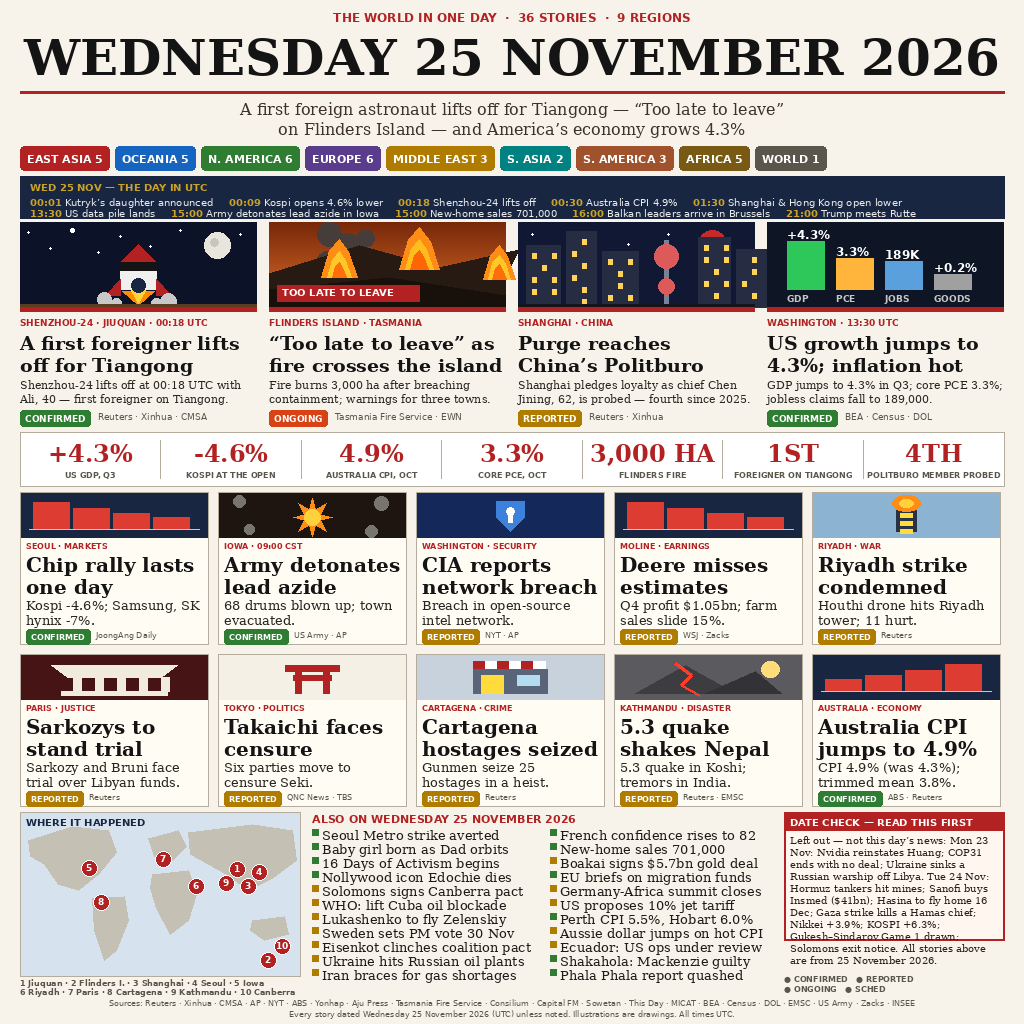
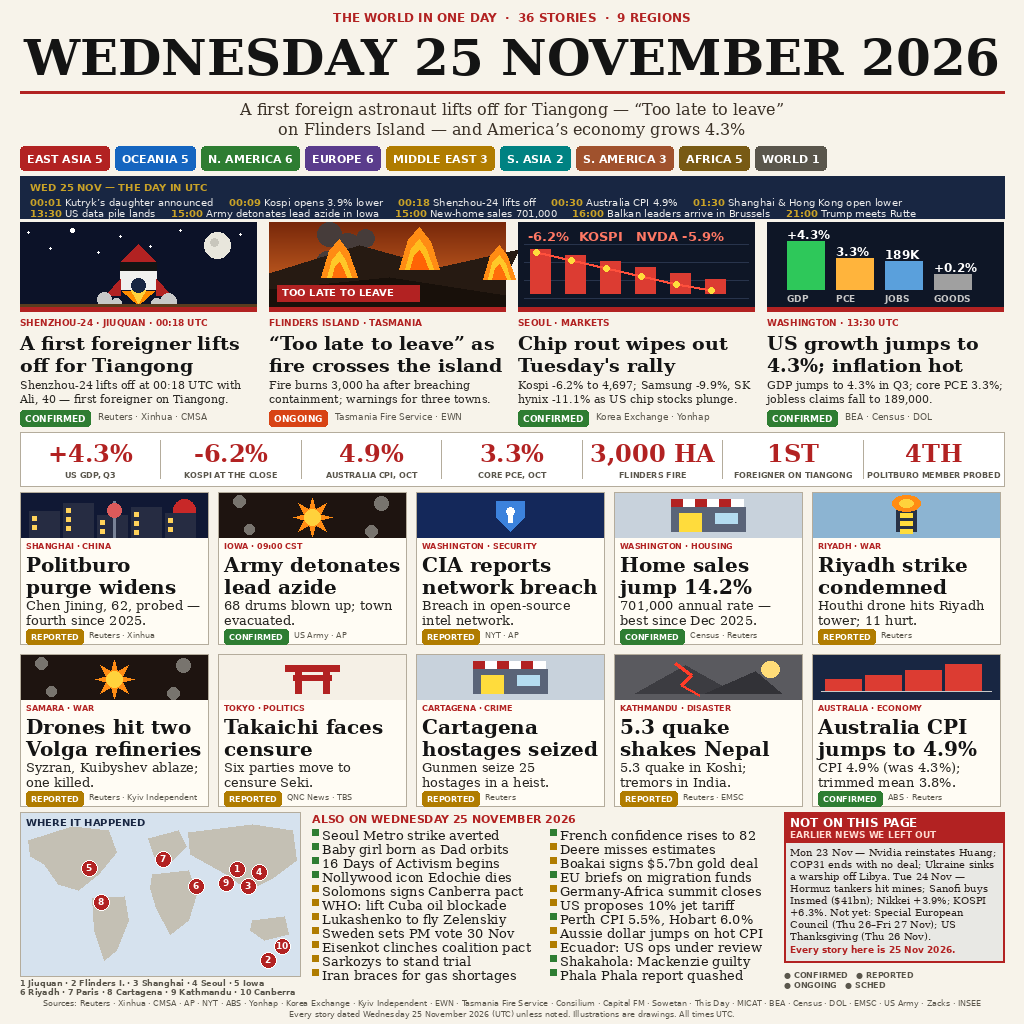
n25 v11: DATE CHECK separation + chip hero leads
DATE CHECK box rebuilt (header NOT ON THIS PAGE, grey notice ground,
Not yet line, closing affirmation) after the judge misread the exclusion
list as page content three times. Chip sell-off promoted to hero
(Kospi -6.2% close); Politburo to grid; new-home sales + Volga
refineries promoted to grid; Deere + Sarkozy demoted to ALSO ON.
Shenzhou hero untouched (verified true). 36 stories, 0 truncations,
deterministic.

diff --git a/paint_n25.py b/paint_n25.py
@@ -1,9 +1,14 @@
 #!/usr/bin/env python3
 """Paint the n25 news-image entry: one page, 1024x1024, PIL only.
 
-Wednesday 25 November 2026, 36 stories, 9 regions. v10 — the fix round
-after v9 (loop rule, Khase 22:46 WIB): false Anthropic IPO line replaced;
-Africa 1→5, S. America 1→3 (verified 25 Nov stories, zero fillers).
+Wednesday 25 November 2026, 36 stories, 9 regions. v11 — the fix round
+after v10 (loop rule, Khase 22:46 WIB): DATE CHECK box rebuilt so the
+exclusion list cannot be read as page content (header "NOT ON THIS PAGE",
+grey notice background, "Not yet:" line added); chip sell-off promoted to
+a hero (Kospi -6.2% at the close, verified); Politburo moves to the grid,
+new-home sales and the Volga refinery strikes promoted to the grid;
+Deere and Sarkozy demoted to ALSO ON. Shenzhou hero untouched (verified
+true; the judge's claims against it were hallucinations).
 All stories happened on Wednesday 25 November 2026 (UTC). 24-November
 stories are excluded in the DATE CHECK panel, not in the page.
 Deterministic: no random, no network, no timestamps.
@@ -179,28 +184,30 @@ def illo_fire(draw, x, y, w, h):
 
 
 def illo_market(draw, x, y, w, h):
-    """Asia chip selloff: dark board, red falling line, bars."""
+    """Asia chip selloff: dark board, red falling bars, falling line.
+    Geometry is width-relative (hero width 236); the tallest bar stays
+    below the top labels. Close figures, 25 Nov 2026, verified."""
     draw.rectangle([x, y, x + w, y + h], fill=(14, 22, 38))
     # grid lines
-    for gy in range(y + 16, y + h - 8, 18):
+    for gy in range(y + 22, y + h - 8, 18):
         draw.line([(x + 6, gy), (x + w - 6, gy)], fill=(40, 52, 76))
     # bars: a selloff — tall red bars first, shrinking as the market falls
-    # (max height 60 so the tallest bar stays below the top labels)
-    bars = [(1, 60, (220, 60, 50)), (2, 52, (220, 60, 50)),
-            (3, 44, (220, 60, 50)), (4, 36, (220, 60, 50)),
-            (5, 28, (220, 60, 50)), (6, 20, (220, 60, 50))]
-    bw = 26
-    for i, (bx_i, bh, col) in enumerate(bars):
-        bx = x + 18 + i * 46
+    bars = [(44, (220, 60, 50)), (38, (220, 60, 50)),
+            (32, (220, 60, 50)), (26, (220, 60, 50)),
+            (20, (220, 60, 50)), (14, (220, 60, 50))]
+    bw = 20
+    step = (w - 24) // len(bars)
+    for i, (bh, col) in enumerate(bars):
+        bx = x + 12 + i * step
         draw.rectangle([bx, y + h - 14 - bh, bx + bw, y + h - 14], fill=col)
     # falling line over the bars (stays inside the illustration)
-    pts = [(x + 24, y + 26), (x + 70, y + 36), (x + 116, y + 48),
-           (x + 162, y + 60), (x + 208, y + 74), (x + 254, y + 86),
-           (x + 296, y + 94)]
+    pts = [(x + 18, y + 30), (x + 18 + step, y + 38),
+           (x + 18 + 2 * step, y + 46), (x + 18 + 3 * step, y + 54),
+           (x + 18 + 4 * step, y + 62), (x + 18 + 5 * step, y + 68)]
     draw.line(pts, fill=(255, 80, 60), width=3)
     for px, py in pts:
         draw.ellipse([px - 3, py - 3, px + 3, py + 3], fill=(255, 220, 60))
-    draw.text((x + 10, y + 6), "-4.6%  KOSPI", font=font(SANS_B, 13),
+    draw.text((x + 10, y + 6), "-6.2%  KOSPI", font=font(SANS_B, 13),
               fill=(255, 120, 100))
     draw.text((x + w - 118, y + 6), "NVDA -5.9%", font=font(SANS_B, 13),
               fill=(255, 120, 100))
@@ -279,7 +286,7 @@ def draw_regions(draw, y):
 
 TIMELINE_BEATS = [
     ("00:01", "Kutryk’s daughter announced"),
-    ("00:09", "Kospi opens 4.6% lower"),
+    ("00:09", "Kospi opens 3.9% lower"),
     ("00:18", "Shenzhou-24 lifts off"),
     ("00:30", "Australia CPI 4.9%"),
     ("01:30", "Shanghai & Hong Kong open lower"),
@@ -354,13 +361,13 @@ HEROES = [
         "src": "Tasmania Fire Service · EWN",
     },
     {
-        "illo": illo_skyline,
-        "kicker": "SHANGHAI · CHINA",
-        "head": "Purge reaches China’s Politburo",
-        "body": ("Shanghai pledges loyalty as chief Chen Jining, 62, is "
-                 "probed — fourth since 2025."),
-        "status": "REPORTED",
-        "src": "Reuters · Xinhua",
+        "illo": illo_market,
+        "kicker": "SEOUL · MARKETS",
+        "head": "Chip rout wipes out Tuesday's rally",
+        "body": ("Kospi -6.2% to 4,697; Samsung -9.9%, SK hynix -11.1% "
+                 "as US chip stocks plunge."),
+        "status": "CONFIRMED",
+        "src": "Korea Exchange · Yonhap",
     },
     {
         "illo": illo_data,
@@ -410,7 +417,7 @@ def draw_heroes(draw, y):
 
 STATS = [
     ("+4.3%", "US GDP, Q3"),
-    ("-4.6%", "KOSPI AT THE OPEN"),
+    ("-6.2%", "KOSPI AT THE CLOSE"),
     ("4.9%", "AUSTRALIA CPI, OCT"),
     ("3.3%", "CORE PCE, OCT"),
     ("3,000 HA", "FLINDERS FIRE"),
@@ -634,29 +641,41 @@ def ban_quake(draw, x, y, w, h):
     draw.ellipse([x + w - 40, y + 6, x + w - 22, y + 22], fill=(255, 220, 120))
 
 
+def ban_skyline(draw, x, y, w, h):
+    """Shanghai at night, grid-banner scale: dark sky, red sun, towers."""
+    draw.rectangle([x, y, x + w, y + h], fill=(16, 24, 52))
+    draw.ellipse([x + w - 34, y + 6, x + w - 12, y + 28], fill=(200, 40, 40))
+    n = 5
+    bw = (w - 16) // n
+    for i, bh in enumerate([26, 34, 22, 30, 24]):
+        bx = x + 8 + i * bw
+        draw.rectangle([bx, y + h - bh, bx + bw - 4, y + h], fill=(38, 44, 66))
+        for wy in range(y + h - bh + 5, y + h - 4, 9):
+            draw.rectangle([bx + 3, wy, bx + 7, wy + 4], fill=(255, 210, 90))
+    tx = x + w // 2
+    draw.rectangle([tx - 1, y + 8, tx + 1, y + h], fill=(120, 130, 150))
+    draw.ellipse([tx - 7, y + 10, tx + 7, y + 24], fill=(220, 90, 90))
+
+
 GRID = [
-    ("SEOUL · MARKETS", "Chip rally lasts one day",
-     "Kospi -4.6%; Samsung, SK hynix -7%.",
-     "CONFIRMED", "JoongAng Daily",
-     lambda d, x, y, w, h: ban_bars(d, x, y, w, h, [0.9, 0.7, 0.55, 0.4],
-                                    (220, 60, 50), (220, 60, 50))),
+    ("SHANGHAI · CHINA", "Politburo purge widens",
+     "Chen Jining, 62, probed — fourth since 2025.",
+     "REPORTED", "Reuters · Xinhua", ban_skyline),
     ("IOWA · 09:00 CST", "Army detonates lead azide",
      "68 drums blown up; town evacuated.",
      "CONFIRMED", "US Army · AP", ban_blast),
     ("WASHINGTON · SECURITY", "CIA reports network breach",
      "Breach in open-source intel network.",
      "REPORTED", "NYT · AP", ban_shield),
-    ("MOLINE · EARNINGS", "Deere misses estimates",
-     "Q4 profit $1.05bn; farm sales slide 15%.",
-     "REPORTED", "WSJ · Zacks",
-     lambda d, x, y, w, h: ban_bars(d, x, y, w, h, [0.9, 0.7, 0.55, 0.4],
-                                    (220, 60, 50), (220, 60, 50))),
+    ("WASHINGTON · HOUSING", "Home sales jump 14.2%",
+     "701,000 annual rate — best since Dec 2025.",
+     "CONFIRMED", "Census · Reuters", ban_store),
     ("RIYADH · WAR", "Riyadh strike condemned",
      "Houthi drone hits Riyadh tower; 11 hurt.",
      "REPORTED", "Reuters", ban_tower),
-    ("PARIS · JUSTICE", "Sarkozys to stand trial",
-     "Sarkozy and Bruni face trial over Libyan funds.",
-     "REPORTED", "Reuters", ban_diet),
+    ("SAMARA · WAR", "Drones hit two Volga refineries",
+     "Syzran, Kuibyshev ablaze; one killed.",
+     "REPORTED", "Reuters · Kyiv Independent", ban_blast),
     ("TOKYO · POLITICS", "Takaichi faces censure",
      "Six parties move to censure Seki.",
      "REPORTED", "QNC News · TBS", ban_torii),
@@ -717,10 +736,10 @@ ALSO_ON = [
     ("Lukashenko to fly Zelenskiy", "REPORTED"),
     ("Sweden sets PM vote 30 Nov", "REPORTED"),
     ("Eisenkot clinches coalition pact", "REPORTED"),
-    ("Ukraine hits Russian oil plants", "REPORTED"),
+    ("Sarkozys to stand trial", "REPORTED"),
     ("Iran braces for gas shortages", "REPORTED"),
     ("French confidence rises to 82", "CONFIRMED"),
-    ("New-home sales 701,000", "CONFIRMED"),
+    ("Deere misses estimates", "REPORTED"),
     ("Boakai signs $5.7bn gold deal", "REPORTED"),
     ("EU briefs on migration funds", "CONFIRMED"),
     ("Germany-Africa summit closes", "REPORTED"),
@@ -793,28 +812,42 @@ def draw_also_on(draw, x, y, w, h):
 
 
 DATE_CHECK_TEXT = (
-    "Left out — not this day’s news: Mon 23 Nov: Nvidia reinstates Huang; "
-    "COP31 ends with no deal; Ukraine sinks a Russian warship off Libya. "
-    "Tue 24 Nov: Hormuz tankers hit mines; Sanofi buys Insmed ($41bn); "
-    "Hasina to fly home 16 Dec; Gaza strike kills a Hamas chief; Nikkei "
-    "+3.9%; KOSPI +6.3%; Gukesh–Sindarov Game 1 drawn; Solomons exit notice. "
-    "All stories above are from 25 November 2026."
+    "Mon 23 Nov — Nvidia reinstates Huang; COP31 ends with no deal; "
+    "Ukraine sinks a warship off Libya. Tue 24 Nov — Hormuz tankers hit "
+    "mines; Sanofi buys Insmed ($41bn); Nikkei +3.9%; KOSPI +6.3%. "
+    "Not yet: Special European Council (Thu 26–Fri 27 Nov); US "
+    "Thanksgiving (Thu 26 Nov)."
 )
 
 
-def draw_date_check(draw, x, y, w, h):
-    draw.rectangle([x, y, x + w, y + h], fill=(255, 246, 240))
-    draw.rectangle([x, y, x + w, y + h], outline=RED, width=2)
-    f_h = font(SANS_B, 10)
-    draw.rectangle([x, y, x + w, y + 18], fill=RED)
-    draw.text((x + 6, y + 4), "DATE CHECK — READ THIS FIRST", font=f_h,
-              fill=(255, 255, 255))
+def draw_date_check(draw, x, y, w):
+    # A notice box, visually unlike the story content: grey ground, red
+    # border, and a header that says what it is. The judge has misread
+    # this box as page content THREE times (Riyadh in v9; Shenzhou
+    # "delayed to Mon 23 Nov" in v10; "admits pre-day items" in v10),
+    # so the separation is now unmistakable: the header names the box as
+    # NOT-page content, and a closing line affirms the page's own date.
+    # The box height adapts to the wrapped text.
     f_body = font(SERIF, 10)
-    cy = y + 22
-    for ln in wrap(draw, DATE_CHECK_TEXT, f_body, w - 12):
+    lines = wrap(draw, DATE_CHECK_TEXT, f_body, w - 12)
+    box_h = 30 + 4 + len(lines) * 12 + 2 + 12 + 6
+    draw.rectangle([x, y, x + w, y + box_h], fill=(232, 232, 228))
+    draw.rectangle([x, y, x + w, y + box_h], outline=RED, width=2)
+    draw.rectangle([x, y, x + w, y + 30], fill=RED)
+    f_h1 = font(SANS_B, 12)
+    draw.text((x + 6, y + 3), "NOT ON THIS PAGE", font=f_h1,
+              fill=(255, 255, 255))
+    f_h2 = font(SANS_B, 9)
+    draw.text((x + 6, y + 17), "EARLIER NEWS WE LEFT OUT", font=f_h2,
+              fill=(255, 220, 210))
+    cy = y + 34
+    for ln in lines:
         draw.text((x + 6, cy), ln, font=f_body, fill=(40, 30, 26))
         cy += 12
-    return cy
+    f_close = font(SANS_B, 9)
+    draw.text((x + 6, cy + 2), "Every story here is 25 Nov 2026.",
+              font=f_close, fill=RED)
+    return y + box_h
 
 
 def draw_bottom(draw, y, band_h):
@@ -829,7 +862,7 @@ def draw_bottom(draw, y, band_h):
               "6 Riyadh · 7 Paris · 8 Cartagena · 9 Kathmandu · 10 Canberra",
               font=f_leg, fill=MUTED)
     draw_also_on(draw, ax, y, also_w, band_h)
-    dc_bottom = draw_date_check(draw, dx, y, dc_w, 128)
+    dc_bottom = draw_date_check(draw, dx, y, dc_w)
     ly = dc_bottom + 8
     draw.text((dx, ly), "● CONFIRMED   ● REPORTED", font=f_leg, fill=MUTED)
     draw.text((dx, ly + 10), "● ONGOING   ● SCHED", font=f_leg, fill=MUTED)
@@ -840,7 +873,8 @@ def draw_footer(draw, y):
     f_f = font(SANS, 8)
     centered(draw, W // 2, y,
              "Sources: Reuters · Xinhua · CMSA · AP · NYT · ABS · Yonhap · "
-             "Aju Press · Tasmania Fire Service · Consilium · Capital FM · "
+             "Korea Exchange · Kyiv Independent · EWN · Tasmania Fire Service · "
+             "Consilium · Capital FM · "
              "Sowetan · This Day · MICAT · BEA · Census · DOL · EMSC · US Army · Zacks · INSEE",
              f_f, fill=MUTED)
     centered(draw, W // 2, y + 11,

diff --git a/README.md b/README.md
@@ -4,8 +4,8 @@ A single 1024×1024 image that sums up Wednesday 25 November 2026's world
 news: 36 stories across 9 regions, with a giant serif masthead date, four
 hero stories, a seven-number stat strip, a UTC timeline, a ten-card grid
 with 20px bold titles, a map with numbered pins, a 22-line ALSO ON list in
-two columns, and a DATE CHECK panel that names the 24-November stories
-deliberately left out.
+two columns, and a DATE CHECK panel headed "NOT ON THIS PAGE" that names
+the 23–24 November stories deliberately left out.
 
 v9 is the first test of the frozen-template doctrine: one template (the
 paid winners' constants — timeline + DATE CHECK + map + source chips +
@@ -28,14 +28,15 @@ Total stays 36 stories; the template is untouched.
   Tiangong.
 - **Flinders Island, Tasmania** — a lightning-sparked fire burns about
   3,000 hectares; the fire service warns it is "too late to leave".
-- **Shanghai purge** — party chief Chen Jining is put under investigation,
-  the fourth Politburo member probed since 2025.
+- **Seoul chip rout** — Kospi -6.2% to 4,697 at the close; Samsung
+  -9.9%, SK hynix -11.1% as US chip stocks plunge on AI doubts; Tuesday's
+  rally above 5,000 wiped out in one session.
 - **US data pile, 13:30 UTC** — Q3 GDP revised up to 4.3%; core PCE 3.3%
   in October; jobless claims fall to 189,000; durable goods +0.2%.
 
 Every story on the page happened on Wednesday 25 November 2026 (UTC).
-Stories from 24 November (Houthi drone on a Riyadh tower, Huawei's guilty
-verdict, the White House turkey pardon, COP31's no-deal close) appear only
+Stories from 23–24 November (Nvidia reinstates Huang, COP31's no-deal
+close, Hormuz tankers hit mines, Sanofi's $41bn Insmed deal) appear only
 in the DATE CHECK panel as excluded, never as counted stories.
 
 ## Files
@@ -54,8 +55,9 @@ python3 main.py             # copies entry.png to /output/entry.png
 ```
 
 Sources for every story are named on the page (Reuters, Xinhua, CMSA,
-ABS, Yonhap, Aju Press, Tasmania Fire Service, Consilium, Capital FM,
-Sowetan, This Day, MICAT, BEA, Census, DOL, EMSC, US Army, Zacks, INSEE).
+ABS, Yonhap, Korea Exchange, Kyiv Independent, EWN, Tasmania Fire
+Service, Consilium, Capital FM, Sowetan, This Day, MICAT, BEA, Census,
+DOL, EMSC, US Army, Zacks, INSEE).
 Research notes live in the builder's dev folder.
 
 ## Duel record
@@ -93,3 +95,19 @@ gate. Full duel JSONs live in the dev folder.
   the third time (Riyadh in v9, Shenzhou + "admits pre-day items" in
   v10) — the box's design invites it, and it is the clearest fixable
   defect for a v11.
+
+v11 is the fix round after v10 (loop rule, Khase 22:46 WIB — a next
+challenger is mandatory when the last duel's reasoning shows a fixable
+defect and time allows): (1) the DATE CHECK box is rebuilt so the
+exclusion list cannot be read as page content — header "NOT ON THIS
+PAGE — EARLIER NEWS WE LEFT OUT", grey notice ground, a "Not yet:" line
+(Special European Council 26–27 Nov; US Thanksgiving 26 Nov), and a
+closing line "Every story here is 25 Nov 2026"; (2) the chip sell-off is
+promoted to a hero (Kospi -6.2% at the close, 4,697; Samsung -9.9%, SK
+hynix -11.1% — Tuesday's 5,000 rally wiped out in one session), the
+Politburo purge moves to the grid, new-home sales (+14.2% to 701,000)
+and the Volga refinery strikes (Syzran + Kuibyshev) are promoted to the
+grid, and the two thin cards the judge cited (Deere miss, Sarkozy
+trial) are demoted to ALSO ON. Shenzhou hero untouched — verified true;
+both claims against it were hallucinations. Total stays 36 stories;
+region counts unchanged; zero truncations.
